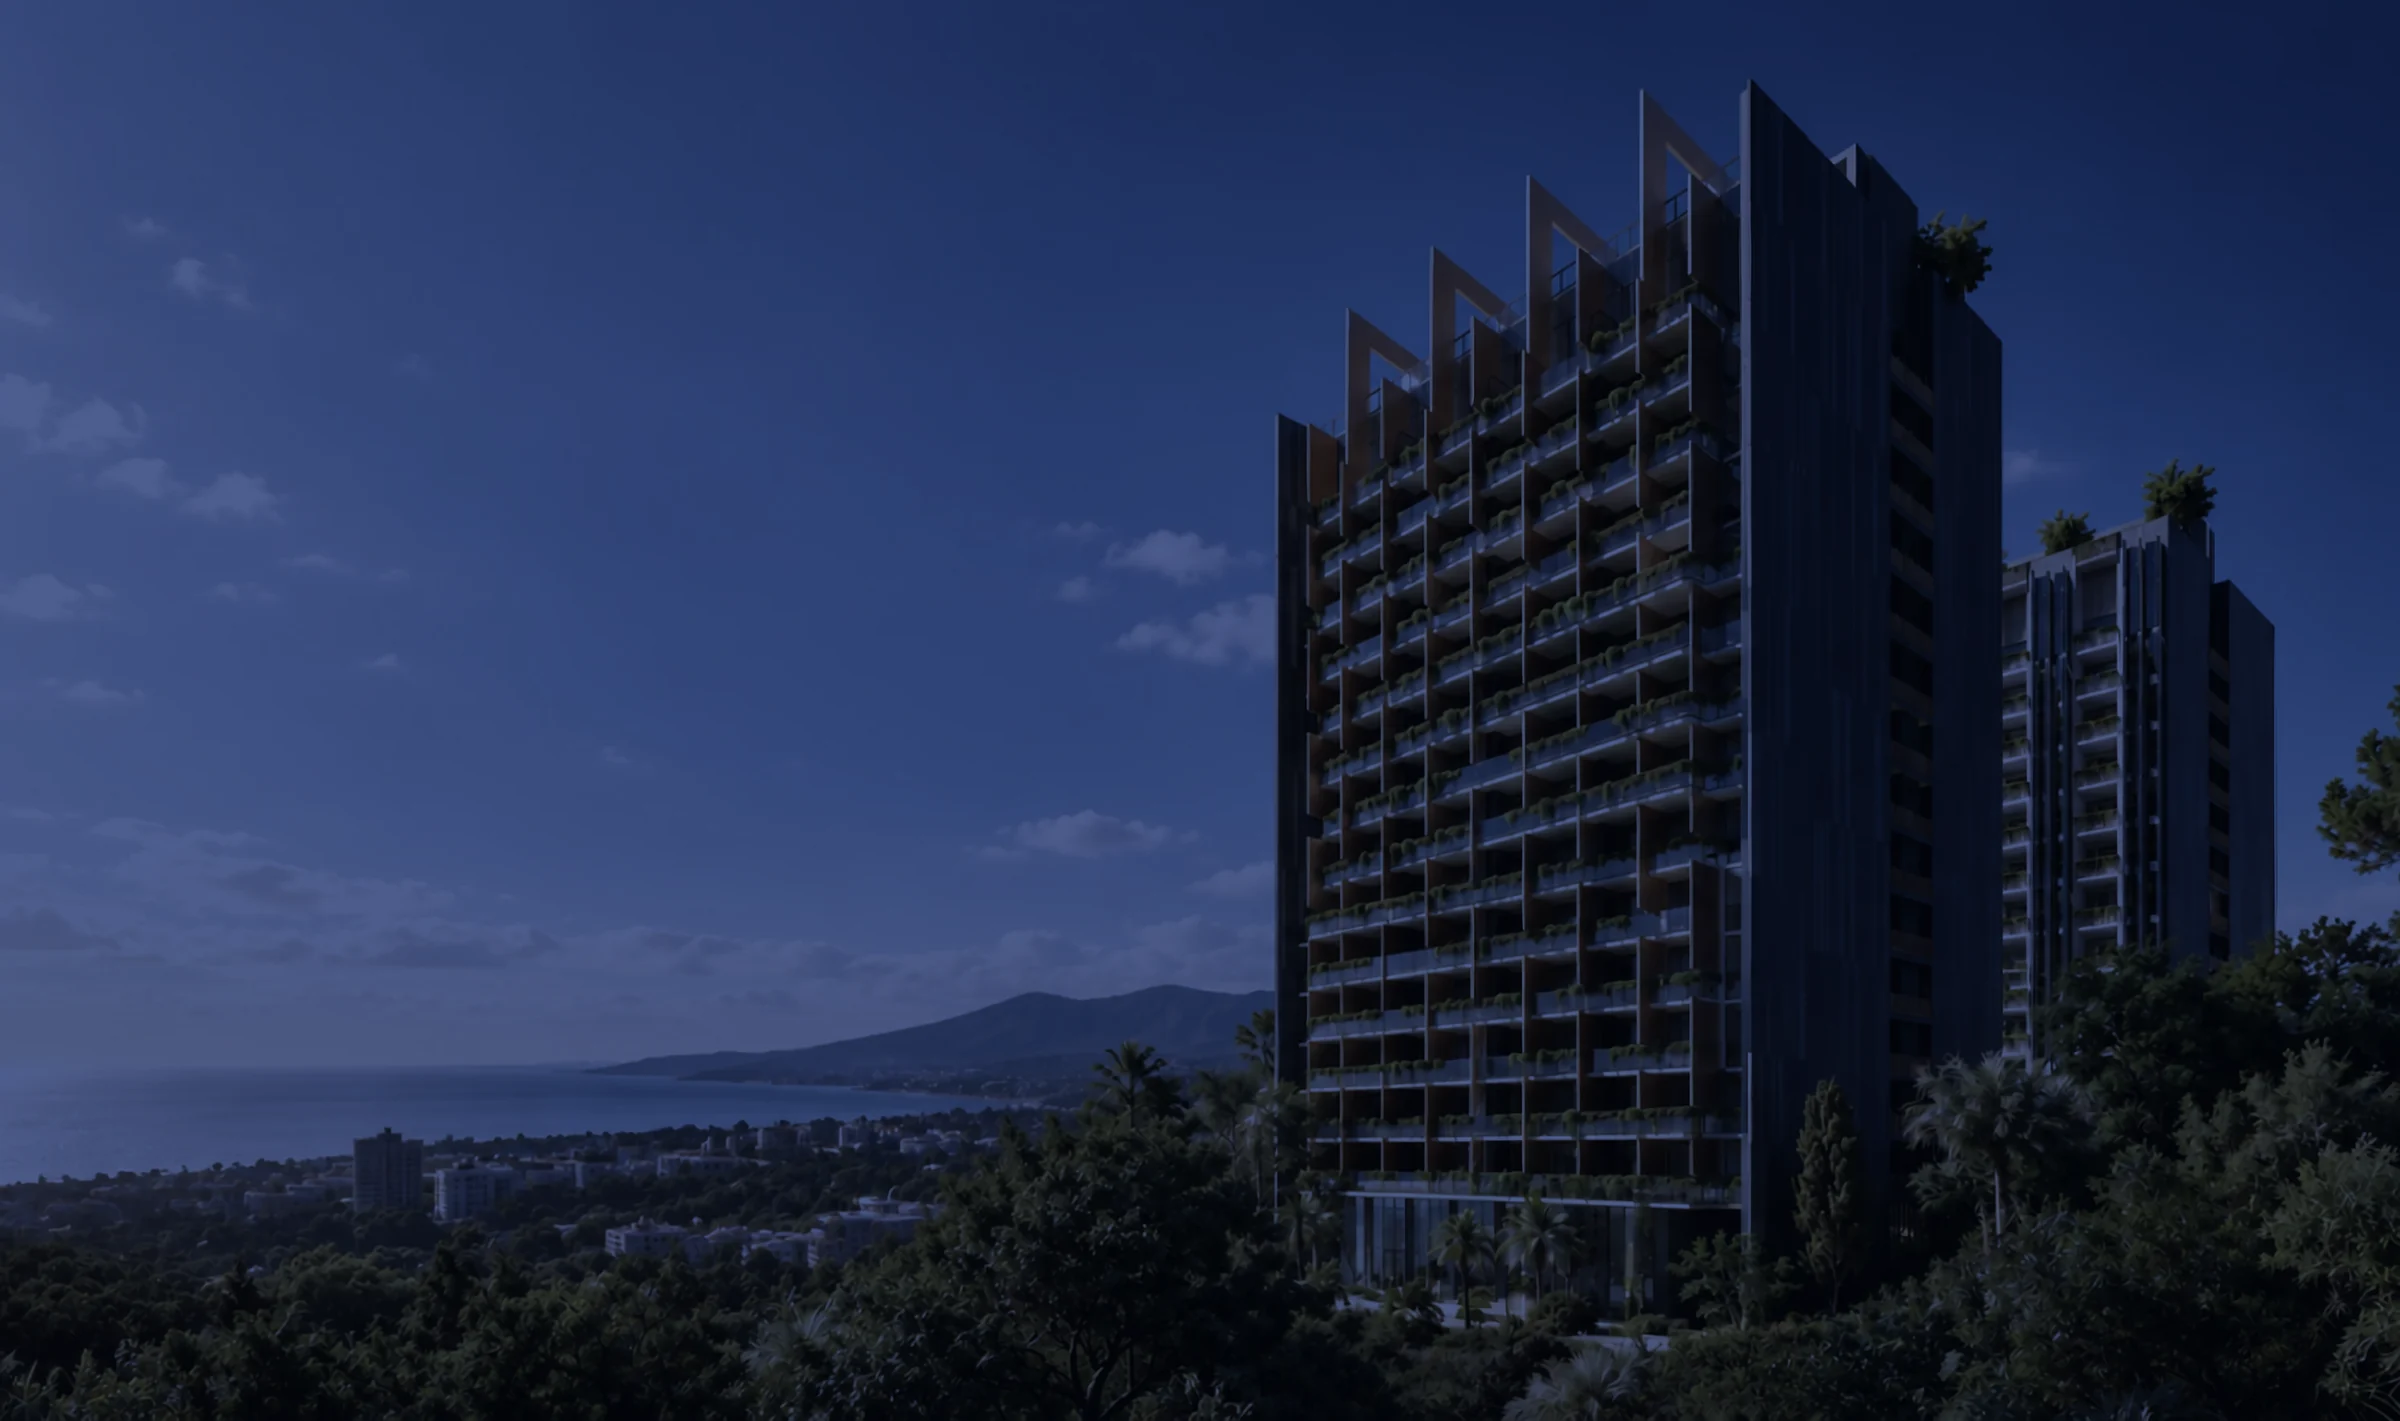
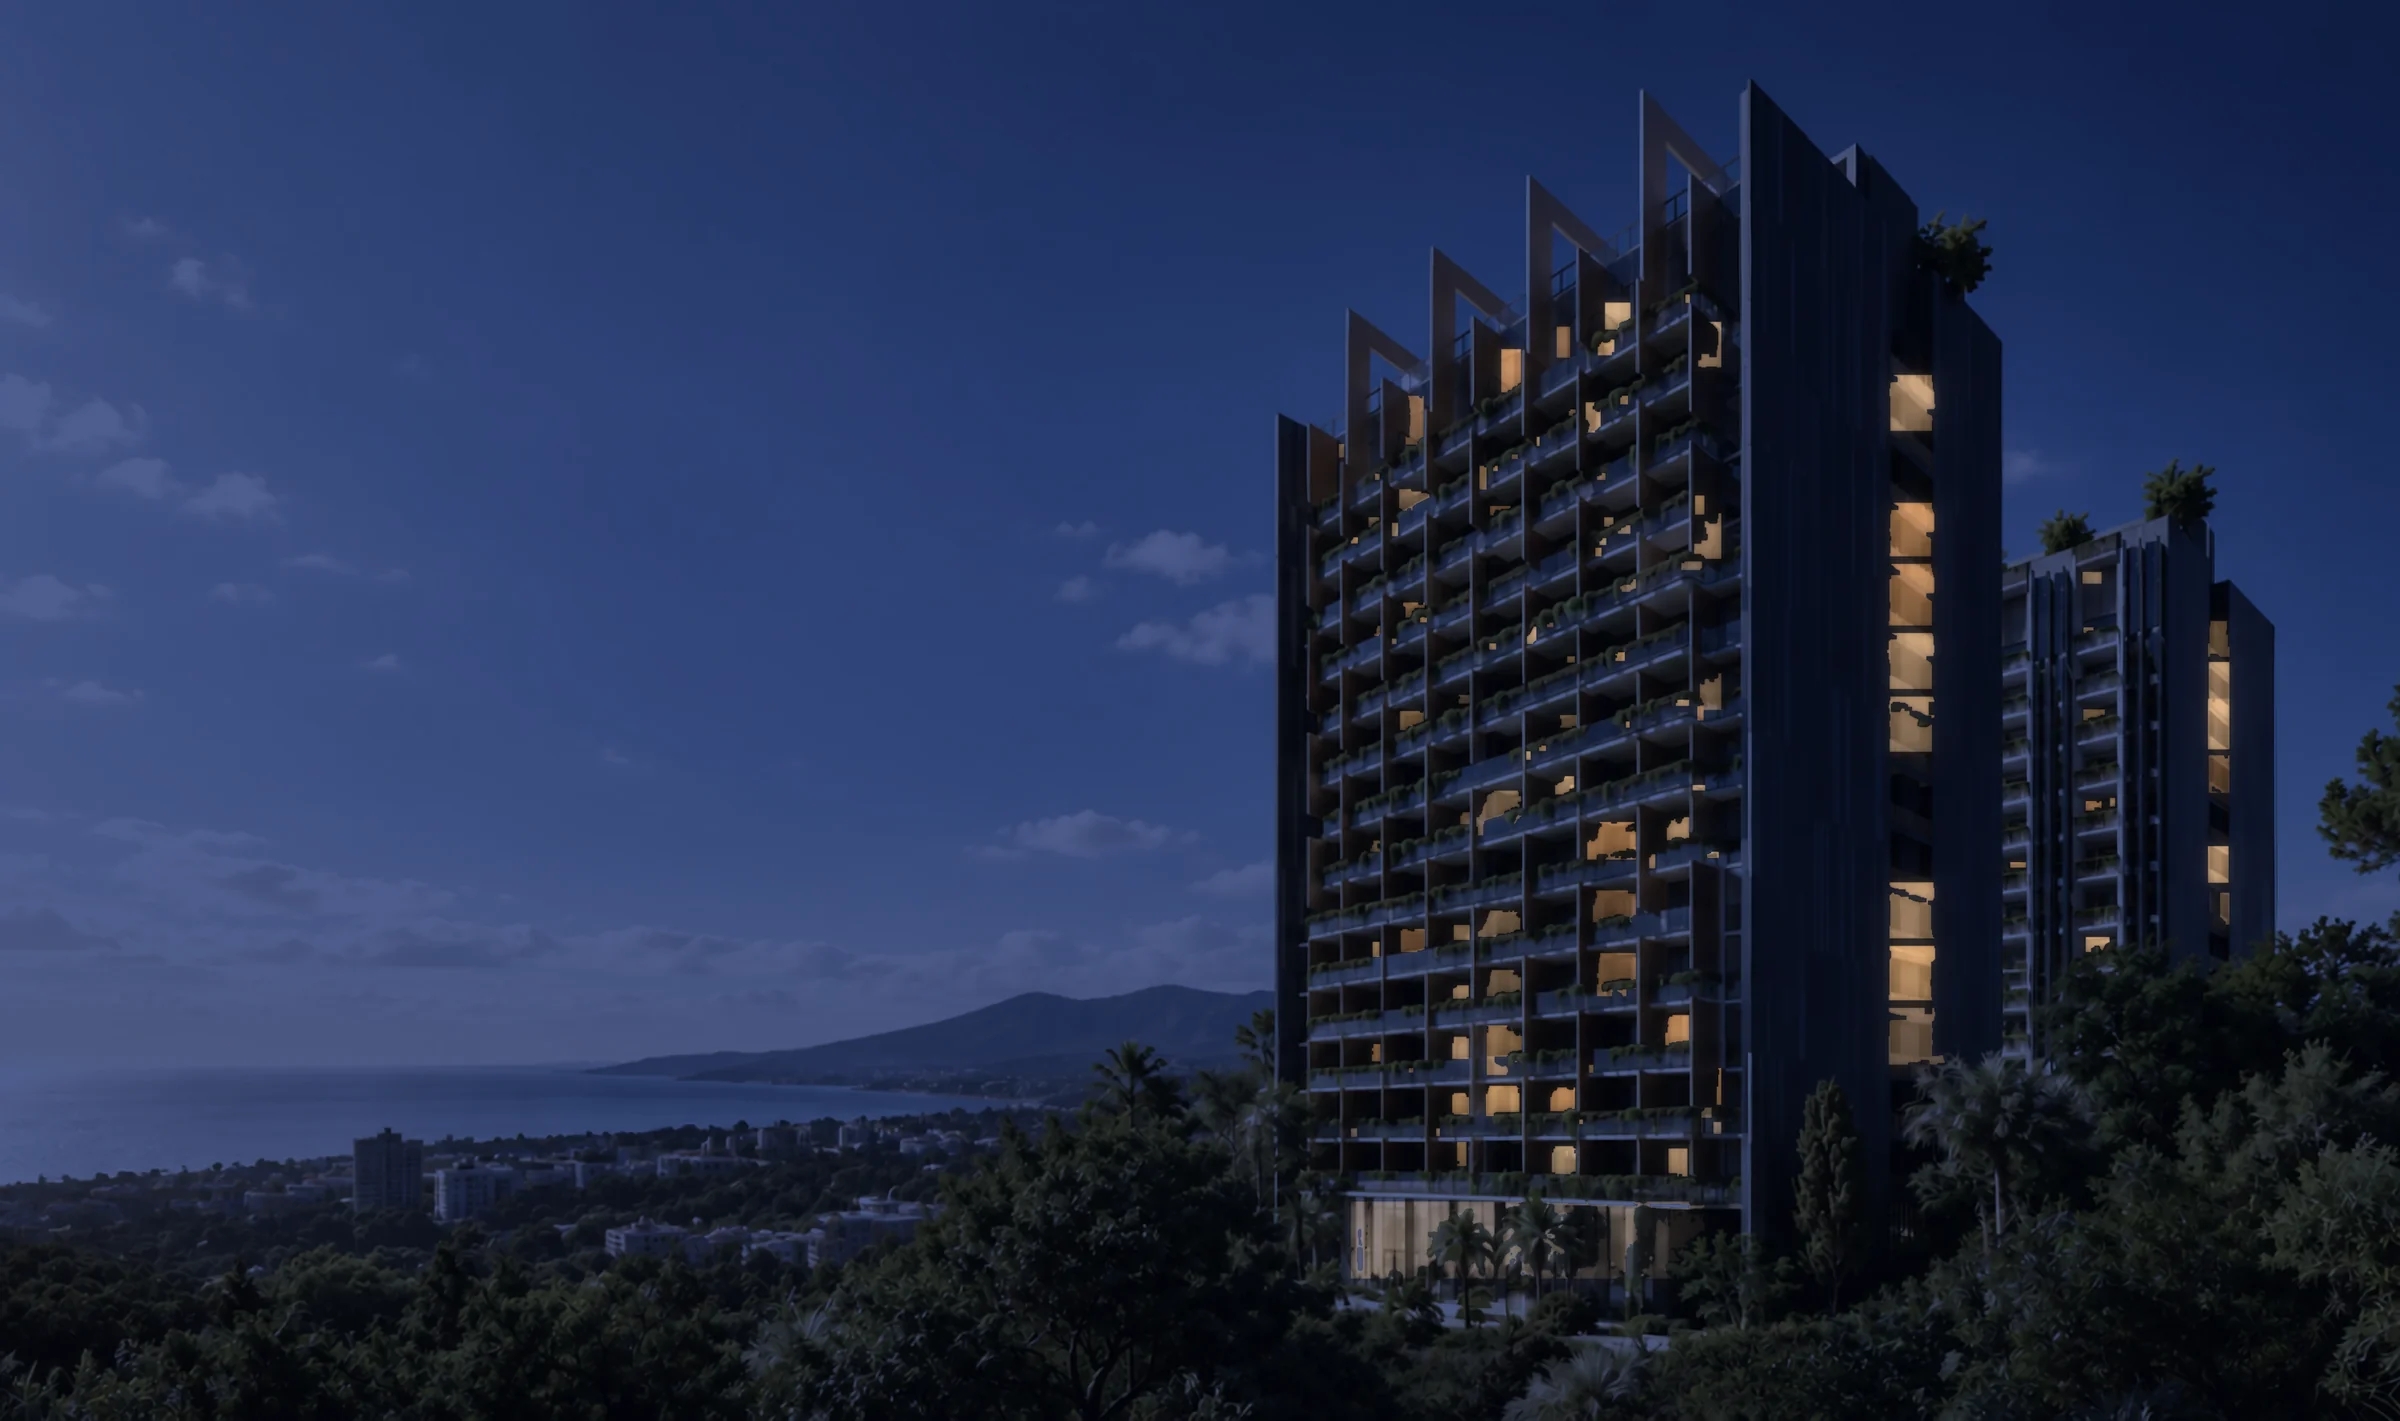
Light the Reverance windows in the night hero photo (#27)
About half the windows and the lobby now glow warm in the night version
of the two-tower render, painted only into the render's own dark glazing.

Claude-Session: https://claude.ai/code/session_01HeqTb6aeL5HVHXqpQvYQAi

diff --git a/AGENTS.md b/AGENTS.md
@@ -39,7 +39,7 @@ Before making substantial visual changes, use the Product Design plugin's `get-c
 
 - October 14 page ending (Klem: "this page can't end with blue"; "We need to add also Contact"; supersedes the September 24 footer rule and the floating Site info disclosure): every public page, Selected Opportunities included (after the Residence Explorer), ends with the neutral `SiteFooter` in `src/components/Privacy.jsx` (`site-footer.css`): Contact (eyebrow, title, line, AIXCO's verified email info@aixco.global as mailto and the office Grüngasse 16, 1050 Wien, Austria; no phone number and no form, since none is verified and the site has no working form destination on Vercel), then the logo, privacy, cookie settings and admin links. Paper and ink by day and afternoon, true black at night; no blue band may be the last section (the Insights FAQ is on paper). CONTACT is the last item of the desktop nav and the menu; it scrolls to and focuses `#contact` on the current page, and a `#contact` link opens the homepage there. Copy in `src/contact-copy.js`.
 
-- October 14 Project Reverance page (Klem): the hero is family `reverance-towers`, the official two-tower render (`public/assets/projects/reverance-tower-2985.webp`, also AIXCO.Global's current-project image) with whole-image colour grades for afternoon and night (nothing added or repainted; sources in /mnt/project-files/klem-oct14/reverance-towers/). The photo starts under the header and fades into a band of its own sky colour so the crowns are never behind the navigation; desktop copy sits top-left on the sky; below 900px and on portrait screens the header, the whole two-tower view and the copy stack. The public GOLDEN PREMIUM APARTMENTS grid (floors 13-14 text, 28/22/6 summary, unit cards with prices) is removed because it belongs in the broker system; its data, the explorer's Golden labels, calculators and the PDF tool stay. In its place, PROJECT FACTS from AIXCO.Global's "Current project" section (checked 14 October 2026): Batumi focus, entry from €45,000, reservation from €5,000 (never confuse the two), 100% foreign ownership, bank financing min. 60%, approx. 12% net rental yield (not guaranteed), regular and Golden Premium residences in two buildings, target completion July 2028, calculator choice and availability check before reservation, AIXCO's transparent ISO-certified process. Then Klem's EXCLUSIVE PURCHASE BENEFIT block, English word for word (20/30/40% down payment → 1/2/3% discount), three tiers that stack below 700px, no calculator changes. Copy in `src/reverance-project-copy.js`.
+- October 14 Project Reverance page (Klem): the hero is family `reverance-towers`, the official two-tower render (`public/assets/projects/reverance-tower-2985.webp`, also AIXCO.Global's current-project image) with whole-image colour grades for afternoon and night; at night (Kemo, 14 October 2026: "as for windows can you somehow add it?") about half the windows and the lobby glow warm, painted only into the render's own dark glazing by the scripts beside the sources, with the geometry unchanged (sources in /mnt/project-files/klem-oct14/reverance-towers/). The photo starts under the header and fades into a band of its own sky colour so the crowns are never behind the navigation; desktop copy sits top-left on the sky; below 900px and on portrait screens the header, the whole two-tower view and the copy stack. The public GOLDEN PREMIUM APARTMENTS grid (floors 13-14 text, 28/22/6 summary, unit cards with prices) is removed because it belongs in the broker system; its data, the explorer's Golden labels, calculators and the PDF tool stay. In its place, PROJECT FACTS from AIXCO.Global's "Current project" section (checked 14 October 2026): Batumi focus, entry from €45,000, reservation from €5,000 (never confuse the two), 100% foreign ownership, bank financing min. 60%, approx. 12% net rental yield (not guaranteed), regular and Golden Premium residences in two buildings, target completion July 2028, calculator choice and availability check before reservation, AIXCO's transparent ISO-certified process. Then Klem's EXCLUSIVE PURCHASE BENEFIT block, English word for word (20/30/40% down payment → 1/2/3% discount), three tiers that stack below 700px, no calculator changes. Copy in `src/reverance-project-copy.js`.
 
 - September 24 building switch: selecting A or B should visibly and smoothly orbit the camera to that block, in either direction, while preserving the accepted final views and immediate manual-orbit takeover. Honor reduced-motion preferences.
 
